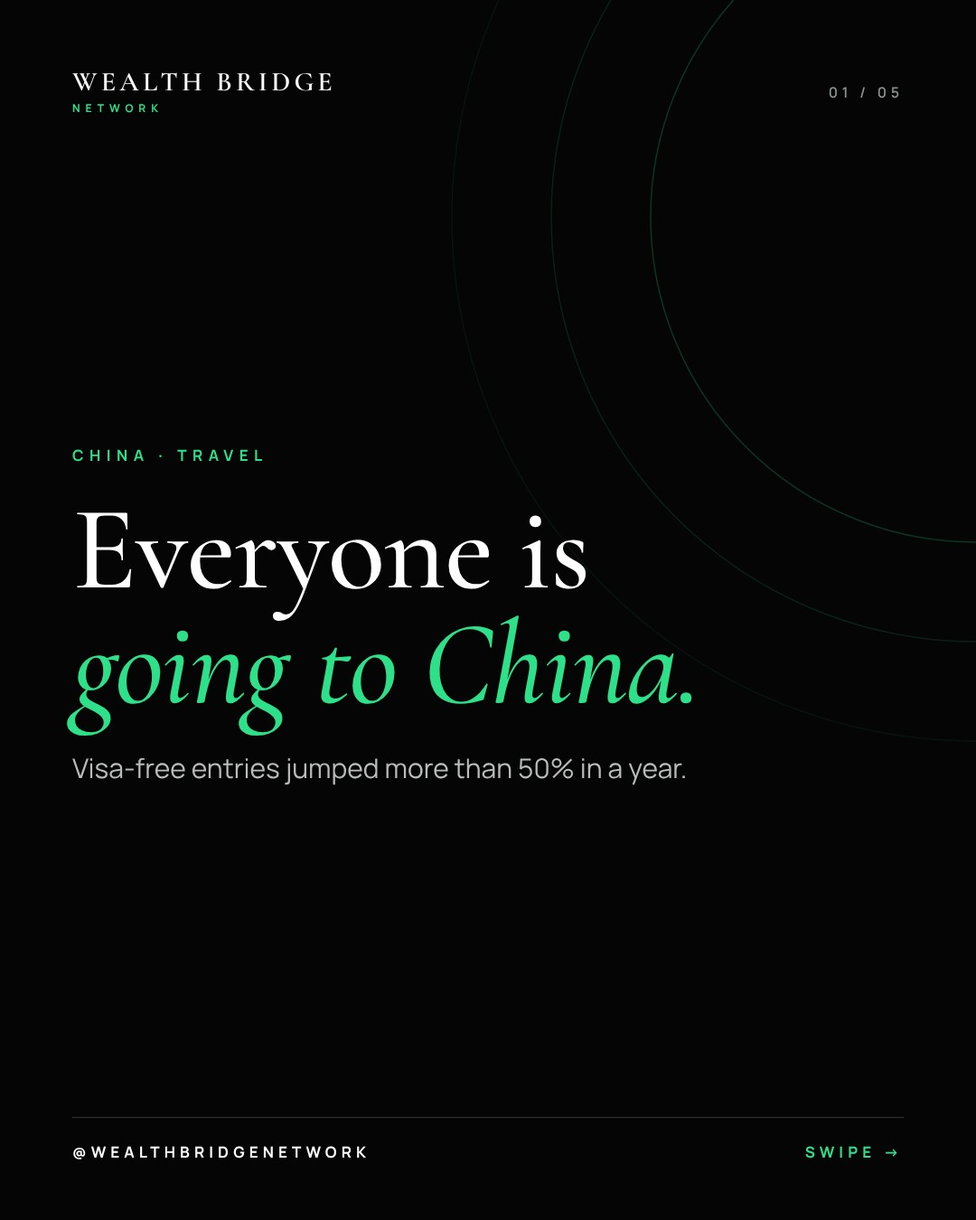
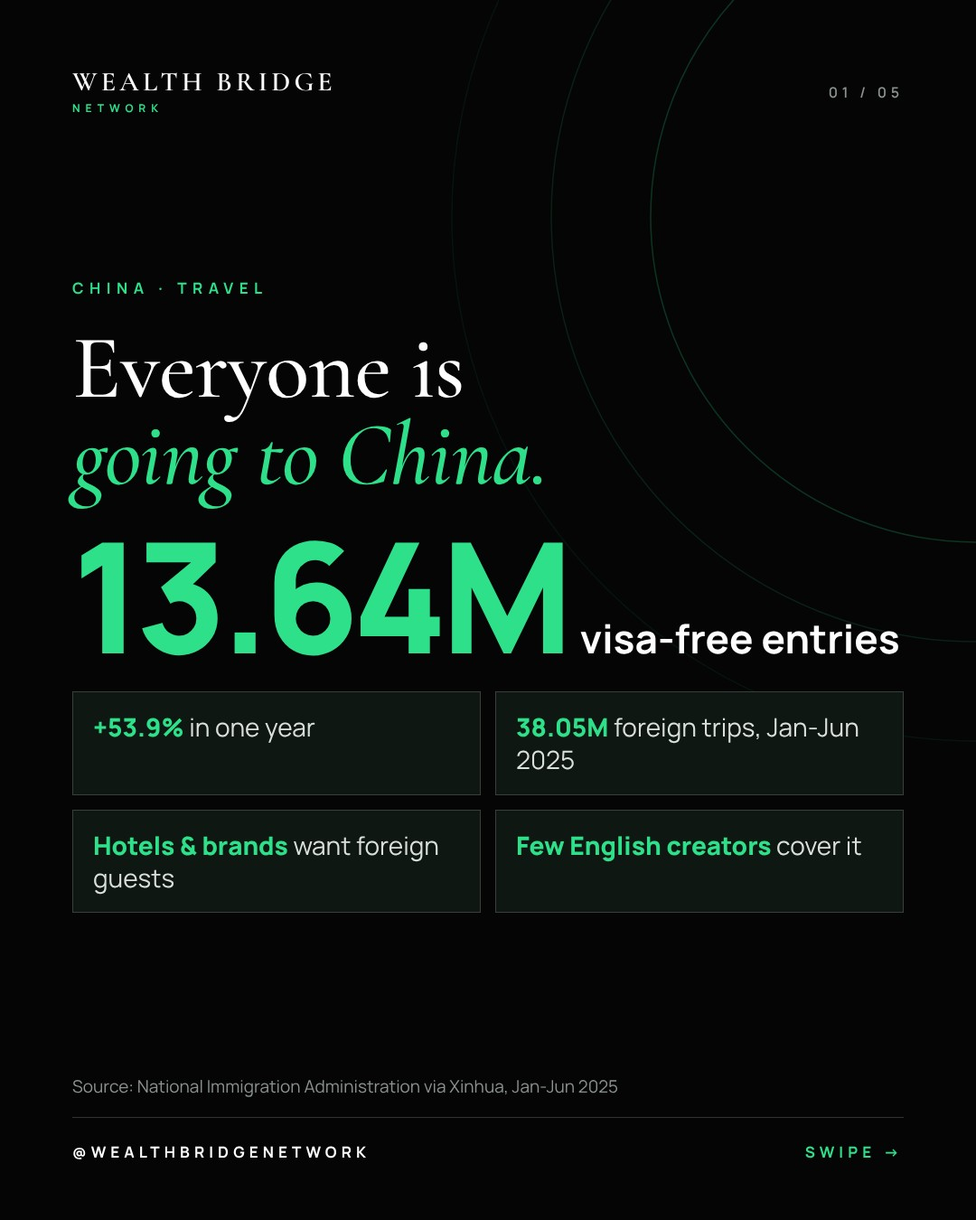
Stronger covers for posts 09-30: bold pay, prices, job types, niches and deal terms
Claude-Session: https://claude.ai/code/session_01XWHiAwmM49JLNDUt2sgabk

diff --git a/content/posts.py b/content/posts.py
@@ -22,6 +22,7 @@ S = dict(
     gdp="Source: Xinhua via Henan Gov't (Feb 2026); Caproasia (Jan 2026); 36Kr",
 )
 
+FX = "USD at 6.67 RMB (Oct 26, 2026)"
 CTA_CREATOR = dict(type="cta", title="Want a brand deal\nin *China?*",
     sub="We're signing **UGC creators** and **athletes** for China brand partnerships.",
     points=["Follow for weekly China opportunities", "DM us your media kit to get started"])
@@ -108,7 +109,7 @@ dict(id="08-alipay", slot="2026-11-11T20:00", pillar="Travel", title="Paying in 
  CTA_TRAVEL]),
 # ---------------- 9 ----------------
 dict(id="09-csc", slot="2026-11-13T11:00", pillar="Scholarships", title="Get paid to study in China", slides=[
- dict(type="cover", label="China · Scholarships", title="Get *paid*\nto study\nin China.", sub="The Chinese Government Scholarship (CSC), explained."),
+ dict(type="cover", label="China · Scholarships", title="Get *paid*\nto study in China.", size=100, big="3,500 RMB", bsize=150, unit="/ month (~$525)", chips=["**Tuition**: 100% covered", "**Free dorm** on campus", "**Stipend**: 2,500-3,500 RMB/mo", "**Health insurance** included", "**Bachelor's, Master's, PhD** · apply Nov-Apr"], src=S["csc"] + ". " + FX),
  dict(type="list", label="What it covers", title="Fully *funded*", items=["**Tuition** paid in full", "**Free dorm** on campus", "**Health insurance** (CNY 800 a year)", "**A monthly stipend** on top"], src=S["csc"]),
  dict(type="bars", label="Monthly stipend, RMB", title="What you *receive*", max=3500, bars=[["PhD", 3500, "3,500"], ["Master's", 3000, "3,000"], ["Bachelor's", 2500, "2,500"]], note="About US$375-$525 a month at Oct 2026 rates, with no rent to pay", src=S["csc"]),
  dict(type="timeline", label="The application cycle", title="When to *apply*", items=[
@@ -116,7 +117,7 @@ dict(id="09-csc", slot="2026-11-13T11:00", pillar="Scholarships", title="Get pai
  CTA_CAREER]),
 # ---------------- 10 ----------------
 dict(id="10-ugc-vs-influencer", slot="2026-11-13T20:00", pillar="Brand deals", title="UGC creator vs influencer", slides=[
- dict(type="cover", label="China · Brand deals", title="You don't need\n*a million*\nfollowers.", sub="UGC creators get paid for the content, not the audience."),
+ dict(type="cover", label="China · Brand deals", title="Get paid for content.\n*Not followers.*", size=96, chips=["**Brand pays per video**, not per follower", "**Small following** is fine", "**15-60 sec** vertical 9:16 videos", "**Brands**: hotels, cafés, fashion, sportswear", "**Start with 3 sample videos** of products you own"]),
  dict(type="split", top=dict(label="Two ways to get paid", title="UGC creator", points=["Brand pays for the video", "Brand posts it on its own page or ads", "Small following is fine"]),
    bottom=dict(title="Influencer", points=["Brand pays for your reach", "You post it to your audience", "Followers and engagement matter"], best_label="Best:", best="do both as you grow.")),
  dict(type="list", label="Winning UGC", title="What brands *buy*", items=["A hook in the first 2 seconds", "Real use of the product, on camera", "Clear audio and captions", "Vertical 9:16, 15-60 seconds"]),
@@ -124,7 +125,7 @@ dict(id="10-ugc-vs-influencer", slot="2026-11-13T20:00", pillar="Brand deals", t
  CTA_CREATOR]),
 # ---------------- 11 ----------------
 dict(id="11-visa-free-boom", slot="2026-11-15T11:00", pillar="Travel", title="China's visa-free travel boom", slides=[
- dict(type="cover", label="China · Travel", title="Everyone is\n*going to China.*", sub="Visa-free entries jumped more than 50% in a year."),
+ dict(type="cover", label="China · Travel", title="Everyone is\n*going to China.*", size=100, big="13.64M", bsize=170, unit="visa-free entries", chips=["**+53.9%** in one year", "**38.05M** foreign trips, Jan-Jun 2025", "**Hotels & brands** want foreign guests", "**Few English creators** cover it"], src=S["nia"]),
  dict(type="stat", label="Visa-free entries, Jan-Jun 2025", value="13.64M", size=200, title="foreign visitors, *no visa needed*", sub="Up **53.9%** on the same period a year earlier.", src=S["nia"]),
  dict(type="bars", label="Jan-Jun 2025, millions", title="The *growth*", max=38.05, bars=[["All foreign trips", 38.05, "38.05M", "dim"], ["Visa-free entries", 13.64, "13.64M"]],
    note="Foreign trips grew 30.2%. Visa-free entries grew 53.9%.", src=S["nia"]),
@@ -132,14 +133,14 @@ dict(id="11-visa-free-boom", slot="2026-11-15T11:00", pillar="Travel", title="Ch
  CTA_CREATOR]),
 # ---------------- 12 ----------------
 dict(id="12-athletes", slot="2026-11-15T20:00", pillar="Brand deals", title="Why athletes should look at China", slides=[
- dict(type="cover", label="China · Athletes", title="Athletes:\nChina's sports\nmarket is *huge.*", sub="A US$540 billion industry looking for faces."),
+ dict(type="cover", label="China · Athletes", title="Athletes: China's\nsports market is *huge.*", size=92, big="$540B", bsize=180, unit="industry", chips=["**72%** is services: training, events, fitness", "**Sportswear & gear** campaigns", "**Gyms & fitness apps**", "**Events, clinics, appearances**", "**Nutrition & recovery** brand deals"], src=S["sport"]),
  dict(type="stat", label="Sports industry total output, 2024", value="3.84T", size=230, title="yuan, about *US$540.6 billion*", sub="Sport was **1.19%** of China's GDP in 2024.", src=S["sport"]),
  dict(type="donut", label="Where the value comes from", title="Mostly *services*", pct=72, center="72%", side="**Sports services** made up 72% of value added. Goods manufacturing was 26.5%. Training, events and fitness need athletes.", src=S["sport"]),
  dict(type="list", label="Deals that fit athletes", title="How *you* fit in", items=["Sportswear and gear campaigns", "Gym, training and fitness app content", "Events, clinics and appearances", "Nutrition and recovery brands"]),
  dict(type="cta", title="Athletes,\nlet's *talk.*", sub="We're signing **athletes** and **UGC creators** for brand deals in China.", points=["Follow for weekly China opportunities", "DM us your sport, stats and media kit"])]),
 # ---------------- 13 ----------------
 dict(id="13-sh-vs-bj", slot="2026-11-16T11:00", pillar="Best cities", title="Shanghai vs Beijing", slides=[
- dict(type="cover", label="China · Best cities", title="Shanghai\nor *Beijing?*", sub="China's two biggest economies, side by side."),
+ dict(type="cover", label="China · Best cities", title="Shanghai\nor *Beijing?*", size=110, chips=["**Shanghai** avg. wage: **12,434 RMB**/mo", "**Beijing** avg. wage: **11,937 RMB**/mo", "**Foreigner pay bar**: **49,736 RMB** (SH)", "**Foreigner pay bar**: **47,748 RMB** (BJ)", "**Shanghai**: finance & fashion · **Beijing**: culture & study"], src="Sources: China Briefing (Feb 2026), 2025 wage basis, Category B work permit benchmarks"),
  dict(type="split", top=dict(label="Both passed 5 trillion yuan GDP", title="Shanghai", points=["2025 GDP: 5.6 trillion yuan", "Avg. wage: 12,434 RMB/month", "Finance, fashion, nightlife"], best_label="Best for:", best="brand and lifestyle content"),
    bottom=dict(title="Beijing", points=["2025 GDP: over 5 trillion yuan", "Avg. wage: 11,937 RMB/month", "History, culture, universities"], best_label="Best for:", best="culture, study and history content"), src="Sources: Caproasia (Jan 2026); Xinhua via Henan Gov't (Feb 2026); China Briefing (Feb 2026)"),
  dict(type="bars", label="Work permit bar for Category B, RMB/month", title="The *pay bar* for foreigners", max=49736, bars=[["Shanghai", 49736, "49,736"], ["Beijing", 47748, "47,748"]],
@@ -148,7 +149,7 @@ dict(id="13-sh-vs-bj", slot="2026-11-16T11:00", pillar="Best cities", title="Sha
  CTA_TRAVEL]),
 # ---------------- 14 ----------------
 dict(id="14-platform-fit", slot="2026-11-16T20:00", pillar="Untapped market", title="Which Chinese app fits your content", slides=[
- dict(type="cover", label="China · Platforms", title="Which Chinese\napp fits *your*\ncontent?", sub="A quick guide to the big three for creators."),
+ dict(type="cover", label="China · Platforms", title="Which Chinese app\nfits *your* content?", size=96, chips=["**Douyin**: **714M** daily users", "**Xiaohongshu**: **245M** monthly", "**Bilibili**: **113 min**/day per user", "**Niches**: food, fitness, beauty", "**Travel, fashion, gaming, education**: there's an app for each"], src="Sources: Nomura via TechNode (Jul 2026); QuestMobile via 36Kr (Mar 2026); Bilibili Q2 2026"),
  dict(type="split", top=dict(label="Short video vs lifestyle", title="Douyin", points=["714M daily users", "Fast, trend-driven video", "Like TikTok, built for China"], best_label="Fits:", best="entertainment, food, fitness"),
    bottom=dict(title="Xiaohongshu", points=["245M monthly users", "Young, mostly female, big cities", "Reviews, travel, beauty, fashion"], best_label="Fits:", best="lifestyle and travel"), src="Sources: Nomura via TechNode (Jul 2026); QuestMobile via 36Kr (Mar 2026); CBBC"),
  dict(type="stat", label="Bilibili · long-form video", value="113", title="*minutes a day* per user", sub="371M monthly users who watch longer videos, like YouTube.", src=S["bili"]),
@@ -156,7 +157,7 @@ dict(id="14-platform-fit", slot="2026-11-16T20:00", pillar="Untapped market", ti
  CTA_CREATOR]),
 # ---------------- 15 ----------------
 dict(id="15-hainan", slot="2026-11-18T11:00", pillar="Travel", title="Hainan's 30-day visa-free entry", slides=[
- dict(type="cover", label="China · Travel", title="China's tropical\nisland is\n*visa-free.*", sub="Hainan's 30-day entry, and how it compares."),
+ dict(type="cover", label="China · Travel", title="China's tropical island\nis *visa-free.*", size=96, big="30 days", bsize=170, unit="no visa", chips=["**61 countries** eligible", "**Beaches, resorts, duty-free**", "**Film**: hotel reviews, water sports", "**vs 240-hr transit**: 10 days, 57 countries"], src=S["hainan"] + "; Shanghai Gov't (Jul 2026)"),
  dict(type="split", top=dict(label="Two visa-free routes", title="Hainan", points=["Up to 30 days", "61 eligible countries", "Beaches, resorts, duty-free"], best_label="Best for:", best="a beach and resort trip"),
    bottom=dict(title="240-hour transit", points=["Up to 10 days", "57 eligible countries", "Must exit to a third country"], best_label="Best for:", best="a multi-city stopover"), src=S["hainan"] + "; Shanghai Gov't (Jul 2026)"),
  dict(type="tiles", label="Hainan at a glance", title="Why *creators* go", tiles=[["30", "days visa-free in Hainan"], ["61", "countries eligible for Hainan"], ["10", "days on 240-hour transit"], ["57", "countries for 240-hour transit"]], src=S["hainan"] + "; Shanghai Gov't (Jul 2026)"),
@@ -164,7 +165,7 @@ dict(id="15-hainan", slot="2026-11-18T11:00", pillar="Travel", title="Hainan's 3
  CTA_TRAVEL]),
 # ---------------- 16 ----------------
 dict(id="16-teach-reqs", slot="2026-11-18T20:00", pillar="Jobs", title="What you need to teach in China", slides=[
- dict(type="cover", label="China · Jobs", title="Can *you* teach\nEnglish in\nChina?", sub="The requirements, in one list."),
+ dict(type="cover", label="China · Jobs", title="Teach English in China.\n*Here's what you need.*", size=88, big="$5,250+", bsize=160, unit="/ month at top schools", chips=["**Bachelor's** in any subject", "**120-hour TEFL**, TESOL or CELTA", "**Age 18-60** + background check", "**Public schools**: $1,800-$3,000/mo", "**Schools**: international, kindergartens, training centers, universities"], src=S["teach"] + ". " + FX),
  dict(type="list", label="The checklist", title="What you *need*", items=["A **bachelor's degree** in any subject", "A **120-hour TEFL**, TESOL or CELTA", "A **background check** (within 6 months, apostilled)", "**Age 18-60** and a post-arrival medical"], src=S["teach"]),
  dict(type="split", top=dict(label="Passports schools prefer", title="Easiest", points=["US, UK, Ireland, Canada", "Australia, New Zealand", "South Africa"]),
    bottom=dict(title="Possible", points=["Other passports can work", "Approval is harder", "Strong experience helps"], best_label="International schools:", best="need a license + 2 yrs."), src=S["teach"]),
@@ -172,7 +173,7 @@ dict(id="16-teach-reqs", slot="2026-11-18T20:00", pillar="Jobs", title="What you
  CTA_CAREER]),
 # ---------------- 17 ----------------
 dict(id="17-deal-timeline", slot="2026-11-20T11:00", pillar="Brand deals", title="A 4-week brand deal timeline", slides=[
- dict(type="cover", label="China · Brand deals", title="Your first deal\nin *4 weeks.*", sub="A typical timeline when we manage it for you."),
+ dict(type="cover", label="China · Brand deals", title="Your first paid\nbrand deal in *4 weeks.*", size=92, chips=["**Week 1**: matched with a brand", "**Week 2**: brief, dates, **payment**", "**Week 3**: visit & film", "**Week 4**: post & **get paid**", "**Brands**: hotels, cafés, fashion, sportswear · **plus free stays & products**"]),
  dict(type="timeline", label="Week by week", title="The *4-week* deal", items=[
    dict(w="Week 1", t="Media kit and match", d="we find a brand that fits your niche", hi=True), dict(w="Week 2", t="Brief and agreement", d="deliverables, dates, payment"), dict(w="Week 3", t="Visit and film", d="the hotel, café or product"), dict(w="Week 4", t="Post and get paid", d="report results to the brand")]),
  dict(type="split", top=dict(label="Your job vs ours", title="You", points=["Create great content", "Post on time", "Share your results"]),
@@ -181,7 +182,7 @@ dict(id="17-deal-timeline", slot="2026-11-20T11:00", pillar="Brand deals", title
  CTA_CREATOR]),
 # ---------------- 18 ----------------
 dict(id="18-chengdu", slot="2026-11-20T20:00", pillar="Best cities", title="Chengdu: the savings city", slides=[
- dict(type="cover", label="China · Best cities", title="Earn less.\n*Save more.*", sub="Why Chengdu can beat Shanghai for your bank account."),
+ dict(type="cover", label="China · Best cities", title="Earn less.\n*Save more.*", size=110, big="16,000 RMB", bsize=140, unit="/ mo + free housing", chips=["**Shanghai**: 22,000 − **8,000 rent** = 14,000", "**Tier-2 teacher pay**: **14k-22k RMB** (~$2,100-$3,300)", "**Cities**: Chengdu, Hangzhou, Wuhan, Xi'an"], src=S["teach"] + ". Example offer; yours will differ. " + FX),
  dict(type="bars", label="Monthly, RMB, after rent", title="What's *left over*", max=16000, bars=[["Chengdu: 16,000 + free housing", 16000, "16,000"], ["Shanghai: 22,000 - 8,000 rent", 14000, "14,000", "dim"]],
    note="Example from a 2026 teaching salary guide. Your offer will differ.", src=S["teach"]),
  dict(type="ranges", label="Typical teacher pay, RMB/month", title="Tier-2 cities *pay well*", max=25000, bars=[["Chengdu", 14000, 22000, "14k-22k"], ["Hangzhou", 14000, 22000, "14k-22k"], ["Wuhan", 14000, 22000, "14k-22k"], ["Xi'an", 14000, 22000, "14k-22k"]], src=S["teach"]),
@@ -189,7 +190,7 @@ dict(id="18-chengdu", slot="2026-11-20T20:00", pillar="Best cities", title="Chen
  CTA_CAREER]),
 # ---------------- 19 ----------------
 dict(id="19-online-shoppers", slot="2026-11-22T11:00", pillar="Untapped market", title="976 million online shoppers", slides=[
- dict(type="cover", label="China · Untapped market", title="*976 million*\nonline\nshoppers.", sub="And they buy what creators recommend."),
+ dict(type="cover", label="China · Untapped market", title="Shoppers who buy\nwhat *creators* recommend.", size=88, big="976M", bsize=180, unit="online shoppers", chips=["**15.97T yuan** online retail, 2025", "**87%** of internet users shop online", "**1.068B** short-video users", "**Review → save → buy**: creators move product"], src="Sources: CNNIC (Jun 2025); NBS 2025"),
  dict(type="donut", label="Share of internet users who shop online", title="Shopping is *default*", pct=86.9, center="87%", side="**976 million** people shop online in China, 86.9% of internet users.", src=S["cnnic_mid"]),
  dict(type="tiles", label="The scale", title="China online, *in numbers*", tiles=[["1.125B", "internet users"], ["1.068B", "short-video users"], ["976M", "online shoppers"], ["15.97T", "yuan online retail, 2025"]], vsize=78,
    src="Sources: CNNIC (Dec 2025, Jun 2025); NBS 2025"),
@@ -197,7 +198,7 @@ dict(id="19-online-shoppers", slot="2026-11-22T11:00", pillar="Untapped market",
  CTA_CREATOR]),
 # ---------------- 20 ----------------
 dict(id="20-contract-flags", slot="2026-11-22T20:00", pillar="Jobs", title="Red flags in a China job contract", slides=[
- dict(type="cover", label="China · Jobs", title="5 *red flags*\nin a China\njob contract.", sub="Read this before you sign anything."),
+ dict(type="cover", label="China · Jobs", title="5 *red flags*\nin a China job contract.", size=96, chips=["**Early termination penalties**", "**Salary withheld** as a deposit", "**Unclear overtime** rules", "**Vague housing** terms", "**No English version** of the contract"], sub="Read this before you sign anything.", src=S["teach"]),
  dict(type="list", label="Watch for", title="Red *flags*", items=["Big **early termination penalties**", "Salary **withheld as a deposit**", "**Unclear overtime** rules", "**Vague housing** terms", "**No English version** of the contract"], src=S["teach"]),
  dict(type="split", top=dict(label="Good vs bad offer", title="Red flag", points=["'Housing provided' with no details", "Pay held back until you finish", "Hours 'as needed'"]),
    bottom=dict(title="Green flag", points=["Housing address or stipend amount", "Pay on a fixed date each month", "Weekly hours written down"], best_label="Rule:", best="if it's not written, it's not real.")),
@@ -205,7 +206,7 @@ dict(id="20-contract-flags", slot="2026-11-22T20:00", pillar="Jobs", title="Red 
  CTA_CAREER]),
 # ---------------- 21 ----------------
 dict(id="21-media-kit", slot="2026-11-23T11:00", pillar="Brand deals", title="Build a media kit brands say yes to", slides=[
- dict(type="cover", label="China · Brand deals", title="The *media kit*\nthat gets\nyou paid.", sub="One page. Five sections. Done."),
+ dict(type="cover", label="China · Brand deals", title="The *media kit*\nthat gets you paid.", size=100, chips=["**Niche** + one-line bio", "**Audience**: size, age, location", "**Results**: views, saves, engagement", "**3 best examples** with links", "**Clear rates**: per video and per package"], sub="One page. Five sections. Brands say yes faster."),
  dict(type="list", label="What goes in it", title="Your *one-pager*", items=["**Who you are**: niche and one-line bio", "**Your audience**: size, age, top locations", "**Results**: views, saves, engagement", "**3 best examples** with links", "**Rates**: per video, per package"]),
  dict(type="split", top=dict(label="Weak vs strong", title="Weak", points=["'I have 8K followers'", "No examples", "'Rates on request'"]),
    bottom=dict(title="Strong", points=["'8K followers, 60% aged 18-34'", "3 videos in your niche", "Clear package prices"], best_label="Result:", best="faster yeses.")),
@@ -213,7 +214,7 @@ dict(id="21-media-kit", slot="2026-11-23T11:00", pillar="Brand deals", title="Bu
  CTA_CREATOR]),
 # ---------------- 22 ----------------
 dict(id="22-canton-fair", slot="2026-11-23T20:00", pillar="Best cities", title="Guangzhou's Canton Fair guide", slides=[
- dict(type="cover", label="China · Guangzhou", title="The world's\nbiggest\n*trade fair.*", sub="The Canton Fair in Guangzhou, explained."),
+ dict(type="cover", label="China · Guangzhou", title="The world's\nbiggest *trade fair.*", size=100, big="167K", bsize=170, unit="overseas buyers", chips=["**216** countries & regions", "**12K+** exhibitors", "**Niches**: advanced manufacturing", "**Home & lifestyle** goods", "**Jobs**: foreign trade sales, cross-border e-commerce"], src=S["canton"]),
  dict(type="tiles", label="Spring 2026, phase 1", title="By the *numbers*", tiles=[["167K", "overseas buyers"], ["216", "countries and regions"], ["12K+", "exhibitors"], ["+5.9%", "buyers vs last edition"]], vsize=86, src=S["canton"]),
  dict(type="timeline", label="Spring 2026 schedule", title="Three *phases*", items=[
    dict(w="Phase 1 · ended Apr 19", t="Advanced manufacturing", d="theme: advancing manufacturing"), dict(w="Phase 2 · Apr 23-27", t="Home and lifestyle goods", hi=True), dict(w="Phase 3 · through May 5", t="Final phase of the fair")], src=S["canton"] + ". Check cantonfair.org.cn for 2027 dates"),
@@ -221,14 +222,14 @@ dict(id="22-canton-fair", slot="2026-11-23T20:00", pillar="Best cities", title="
  CTA_TRAVEL]),
 # ---------------- 23 ----------------
 dict(id="23-trip-checklist", slot="2026-11-25T11:00", pillar="Travel", title="First trip to China checklist", slides=[
- dict(type="cover", label="China · Travel", title="Your first trip\nto China:\n*the checklist.*", sub="Save this before you book."),
+ dict(type="cover", label="China · Travel", title="First trip to China:\n*the checklist.*", size=96, chips=["**Visa-free?** 57 countries, 10 days", "**Alipay** + your own card", "**WeChat Pay** as a backup", "**Under 200 RMB**: no card fee", "**Offline maps, translator** and a little cash"], sub="Save this before you book.", src=S["t240"].split(". Rules")[0] + "; " + S["alipay"].replace("Source: ", "")),
  dict(type="list", label="Before you book", title="Step *one*", items=["Check if your passport qualifies for visa-free entry", "240-hour transit? Book an exit to a **third country**", "Not eligible? Apply for a tourist visa early", "Check that your passport isn't close to expiring"], src=S["t240"]),
  dict(type="list", label="Before you fly", title="Step *two*", items=["Set up **Alipay** and link your card", "Add **WeChat Pay** as a backup", "Download offline maps and a translator", "Carry a little cash"], src=S["alipay"]),
  dict(type="flow", label="When you land", title="Step *three*", steps=[dict(t="Show passport and onward ticket"), dict(t="Make a small test payment", d="under 200 RMB, no fee", hi=True), dict(t="Start creating")], src=S["alipay"]),
  CTA_TRAVEL]),
 # ---------------- 24 ----------------
 dict(id="24-schwarzman-yenching", slot="2026-11-25T20:00", pillar="Scholarships", title="Fully funded master's in China", slides=[
- dict(type="cover", label="China · Scholarships", title="A free master's\nat China's *top*\nuniversities.", sub="Schwarzman vs Yenching."),
+ dict(type="cover", label="China · Scholarships", title="A free master's at\nChina's *top* universities.", size=88, big="$0", bsize=180, unit="tuition, plus a stipend", chips=["**Schwarzman · Tsinghua**: Global Affairs, 1 year", "**Yenching · Peking U**: China Studies", "**Covers**: tuition, housing, travel", "**Ages 18-28** (Schwarzman)"], src=S["schw"]),
  dict(type="split", top=dict(label="Two elite scholarships", title="Schwarzman", points=["Tsinghua University, Beijing", "1-year master's in Global Affairs", "Ages 18-28"], best_label="Covers:", best="tuition, room, travel, stipend"),
    bottom=dict(title="Yenching", points=["Peking University, Beijing", "Master's in China Studies", "Preferably 25 or younger"], best_label="Covers:", best="tuition, housing, living costs"), src=S["schw"]),
  dict(type="list", label="Schwarzman covers", title="Everything, *basically*", items=["Tuition and fees", "Room and board", "Round-trip travel to Beijing", "In-country study tour", "Health insurance and a stipend"], src=S["schw"]),
@@ -236,7 +237,7 @@ dict(id="24-schwarzman-yenching", slot="2026-11-25T20:00", pillar="Scholarships"
  CTA_CAREER]),
 # ---------------- 25 ----------------
 dict(id="25-why-now", slot="2026-11-27T11:00", pillar="Untapped market", title="Why now is the time for China", slides=[
- dict(type="cover", label="China · Untapped market", title="Why *now*\nis the time\nfor China.", sub="Three trends lining up at once."),
+ dict(type="cover", label="China · Untapped market", title="Why *now*\nis the time for China.", size=100, chips=["**+53.9%** visa-free entries", "**+8.6%** online retail growth", "**+19%** Douyin daily users", "**57 countries** visa-free transit", "**Brand deals, jobs, travel**: the window is open"], src="Sources: NIA via Xinhua (H1 2025); NBS 2025; Nomura via TechNode (Jul 2026); Shanghai Gov't"),
  dict(type="tiles", label="Three trends", title="The *window*", tiles=[["+53.9%", "visa-free entries, H1 2025"], ["+8.6%", "online retail growth, 2025"], ["+19%", "Douyin daily users, year on year"], ["57", "countries with 240-hr transit"]], vsize=78,
    src="Sources: NIA via Xinhua; NBS; Nomura via TechNode (Jul 2026); Shanghai Gov't"),
  dict(type="split", top=dict(label="Then vs now", title="Before", points=["Hard to visit", "Payments confusing for visitors", "Few creator connections"]),
@@ -246,7 +247,7 @@ dict(id="25-why-now", slot="2026-11-27T11:00", pillar="Untapped market", title="
  CTA_CREATOR]),
 # ---------------- 26 ----------------
 dict(id="26-confucius", slot="2026-11-27T20:00", pillar="Scholarships", title="Study Chinese for free", slides=[
- dict(type="cover", label="China · Scholarships", title="Learn Chinese\n*for free*\nin China.", sub="The Confucius Institute Scholarship."),
+ dict(type="cover", label="China · Scholarships", title="Learn Chinese\n*for free* in China.", size=100, big="3,000 RMB", bsize=140, unit="/ month max stipend", chips=["**Full tuition**", "**Free dorm**", "**Stipend**: 2,500-3,000 RMB/mo", "**1,500 RMB** settlement allowance", "**Bilingual = better jobs & brand deals**"], src=S["csc"]),
  dict(type="list", label="What it covers", title="The *package*", items=["**Full tuition**", "**Free dorm**", "**2,500-3,000 RMB** monthly stipend", "**1,500 RMB** one-time settlement allowance", "Basic health insurance"], src=S["csc"]),
  dict(type="split", top=dict(label="Two scholarships", title="Confucius", points=["Focus: learning Chinese", "Apply via a Confucius Institute", "Usually due Jan-Apr"]),
    bottom=dict(title="CSC", points=["Focus: full degrees", "Apply via embassy or university", "Jan-Apr, varies by country"], best_label="Tip:", best="start in winter."), src=S["csc"]),
@@ -254,7 +255,7 @@ dict(id="26-confucius", slot="2026-11-27T20:00", pillar="Scholarships", title="S
  CTA_CAREER]),
 # ---------------- 27 ----------------
 dict(id="27-hz-wuhan", slot="2026-11-29T11:00", pillar="Best cities", title="Hangzhou and Wuhan", slides=[
- dict(type="cover", label="China · Best cities", title="Cities you've\n*never heard of*\nwith huge economies.", size=118, sub="Hangzhou and Wuhan, both over 2 trillion yuan."),
+ dict(type="cover", label="China · Best cities", title="Cities you've\n*never heard of*\nwith huge economies.", size=88, big="2T+", bsize=170, unit="yuan GDP each", chips=["**Hangzhou**: **2.30T** · tech & e-commerce", "**Wuhan**: **2.21T** · universities", "**Wuhan teacher pay**: 14k-22k RMB", "**29 cities** over 1T yuan"], src=S["gdp"] + "; Migaku 2026"),
  dict(type="bars", label="2025 GDP, trillion yuan", title="Bigger than *you think*", max=5.6, bars=[["Shanghai", 5.6, "5.6T", "dim"], ["Hangzhou", 2.3011, "2.30T"], ["Wuhan", 2.2147, "2.21T"]],
    note="China now has **29 cities** with GDP over 1 trillion yuan.", src=S["gdp"]),
  dict(type="split", top=dict(label="Two rising cities", title="Hangzhou", points=["Tech and e-commerce hub", "Famous West Lake scenery", "240-hour entry port"], best_label="Best for:", best="tech, travel, lifestyle"),
@@ -263,7 +264,7 @@ dict(id="27-hz-wuhan", slot="2026-11-29T11:00", pillar="Best cities", title="Han
  CTA_TRAVEL]),
 # ---------------- 28 ----------------
 dict(id="28-creator-recruit", slot="2026-11-29T20:00", pillar="Recruitment", title="We're signing creators and athletes", slides=[
- dict(type="cover", label="Now signing", title="We need\n*UGC creators*\nand athletes.", sub="Brand deals in China, managed for you."),
+ dict(type="cover", label="Now signing", title="We need *UGC creators*\nand athletes.", size=96, chips=["**Paid brand partnerships**", "**Free hotel stays & products**", "**Niches**: travel, food, beauty, fashion", "**Athletes & fitness** creators", "**We handle** brands, contracts and payment"], sub="Brand deals in China, managed for you. DM your media kit."),
  dict(type="list", label="Who we're looking for", title="Is this *you?*", items=["UGC creators in travel, food, beauty, fashion", "Athletes and fitness creators", "Clean, consistent video quality", "Open to visiting China, or filming remotely"]),
  dict(type="split", join="&", top=dict(label="What you get", title="Deals", points=["Paid brand partnerships", "Hotel stays and products", "China content for your page"]),
    bottom=dict(title="Support", points=["We find and vet brands", "We handle language and contracts", "We keep payment on track"])),
@@ -271,7 +272,7 @@ dict(id="28-creator-recruit", slot="2026-11-29T20:00", pillar="Recruitment", tit
  CTA_CREATOR]),
 # ---------------- 29 ----------------
 dict(id="29-kuaishou-bilibili", slot="2026-11-30T11:00", pillar="Untapped market", title="The apps beyond Douyin", slides=[
- dict(type="cover", label="China · Platforms", title="Beyond Douyin:\n*two giants*\nyou've missed.", sub="Kuaishou and Bilibili, explained."),
+ dict(type="cover", label="China · Platforms", title="Beyond Douyin:\n*two giants* you've missed.", size=92, chips=["**Kuaishou**: **797M** monthly", "**+11.5%** in a year", "**Kuaishou**: **412M** daily · live shopping", "**Bilibili**: **371M** monthly", "**Bilibili**: **113 min**/day · long video & education"], src=S["ks"] + "; " + S["bili"].replace("Source: ", "")),
  dict(type="split", top=dict(label="Two more platforms", title="Kuaishou", points=["412M daily users", "797M monthly users", "Short video and live shopping"], best_label="Fits:", best="relatable, everyday content"),
    bottom=dict(title="Bilibili", points=["117M daily users", "371M monthly users", "113 minutes a day each"], best_label="Fits:", best="long videos and education"), src="Sources: Kuaishou & Bilibili Q2 2026 results"),
  dict(type="bars", label="Monthly users, millions, Q2 2026", title="Kuaishou is *growing*", max=797.3, bars=[["Kuaishou, Q2 2026", 797.3, "797M"], ["Kuaishou, Q2 2025", 714.8, "715M", "dim"]], note="Monthly users up **11.5%** in a year.", src=S["ks"]),
@@ -279,7 +280,7 @@ dict(id="29-kuaishou-bilibili", slot="2026-11-30T11:00", pillar="Untapped market
  CTA_CREATOR]),
 # ---------------- 30 ----------------
 dict(id="30-month-recap", slot="2026-11-30T20:00", pillar="Recap", title="China opportunities: the recap", slides=[
- dict(type="cover", label="Save this", title="China in\n*one post.*", sub="Our month of China opportunities, recapped."),
+ dict(type="cover", label="Save this", title="China in *one post.*", size=100, chips=["**1.125B** people online", "**714M** open Douyin daily", "**Jobs** up to **$5,000/mo**", "**3,500 RMB/mo** PhD stipend", "**Visa-free**: 57 countries, 10 days · **Hainan** 30 days"], sub="Jobs, scholarships, brand deals and travel, recapped.", src="Sources: CNNIC; Nomura via TechNode; Migaku 2026; CSC program pages; Shanghai & Beijing Gov't"),
  dict(type="tiles", label="The numbers to remember", title="China, *at a glance*", tiles=[["1.125B", "people online"], ["714M", "open Douyin daily"], ["57", "countries with 240-hr transit"], ["3,500", "RMB/month CSC PhD stipend"]], vsize=80,
    src="Sources: CNNIC; Nomura via TechNode; Shanghai Gov't; CSC program pages"),
  dict(type="flow", label="Your roadmap", title="Pick your *bridge*", steps=[dict(t="Creator or athlete?", d="brand deals in China"), dict(t="Want a career?", d="teaching and work permits"), dict(t="Want to study?", d="CSC, Schwarzman, Yenching"), dict(t="Just visiting?", d="240-hour transit and Hainan", hi=True)]),

diff --git a/scripts/render.py b/scripts/render.py
@@ -104,6 +104,12 @@ body{{margin:0;width:{W}px;height:{H}px;background:var(--bg);font-family:'Manrop
 /* stat */
 .big{{font-family:'Cormorant',serif;font-weight:600;line-height:.85;color:var(--accent);letter-spacing:-.02em}}
 .money{{display:flex;align-items:baseline;white-space:nowrap;font-family:'Manrope',sans-serif;font-weight:800;line-height:.9;letter-spacing:-.04em;color:var(--accent)}}
+.chips{{display:grid;grid-template-columns:1fr 1fr;gap:16px}}
+.cover .money{{flex-wrap:wrap;white-space:normal;row-gap:6px}}
+.cover .money span{{white-space:nowrap}}
+.chip{{border:1.5px solid var(--line);background:var(--card);padding:20px 22px;font-size:28px;line-height:1.3;color:#DADFDC}}
+.chip b{{color:var(--accent);font-weight:800}}
+.chip.w{{grid-column:1 / -1}}
 .money span{{font-size:.26em;font-weight:700;letter-spacing:0;color:var(--ink);margin-left:14px}}
 /* cta */
 .pill{{display:inline-flex;align-items:center;gap:20px;background:var(--accent);color:#050505;padding:26px 42px;border-radius:999px;font-size:22px;font-weight:800;letter-spacing:.2em}}
@@ -146,8 +152,11 @@ def s_cover(s, i, n):
              f'<div class="h1" style="font-size:{size}px">{rich(s["title"])}</div>'
              + (f'<div class="money" style="font-size:{s.get("bsize", 210)}px">{rich(s["big"])}'
                 f'<span>{rich(s.get("unit", ""))}</span></div>' if s.get("big") else "")
-             + (f'<div class="sub">{rich(s["sub"])}</div>' if s.get("sub") else ""))
-    return frame(inner, i, n, s.get("src"))
+             + (f'<div class="sub">{rich(s["sub"])}</div>' if s.get("sub") else "")
+             + (f'<div class="chips">' + "".join(
+                 f'<div class="chip{" w" if (k == len(s["chips"]) - 1 and len(s["chips"]) % 2) else ""}">{rich(c)}</div>'
+                 for k, c in enumerate(s["chips"])) + '</div>' if s.get("chips") else ""))
+    return frame(inner, i, n, s.get("src")).replace('class="slide"', 'class="slide cover"', 1)
 
 
 def s_stat(s, i, n):
